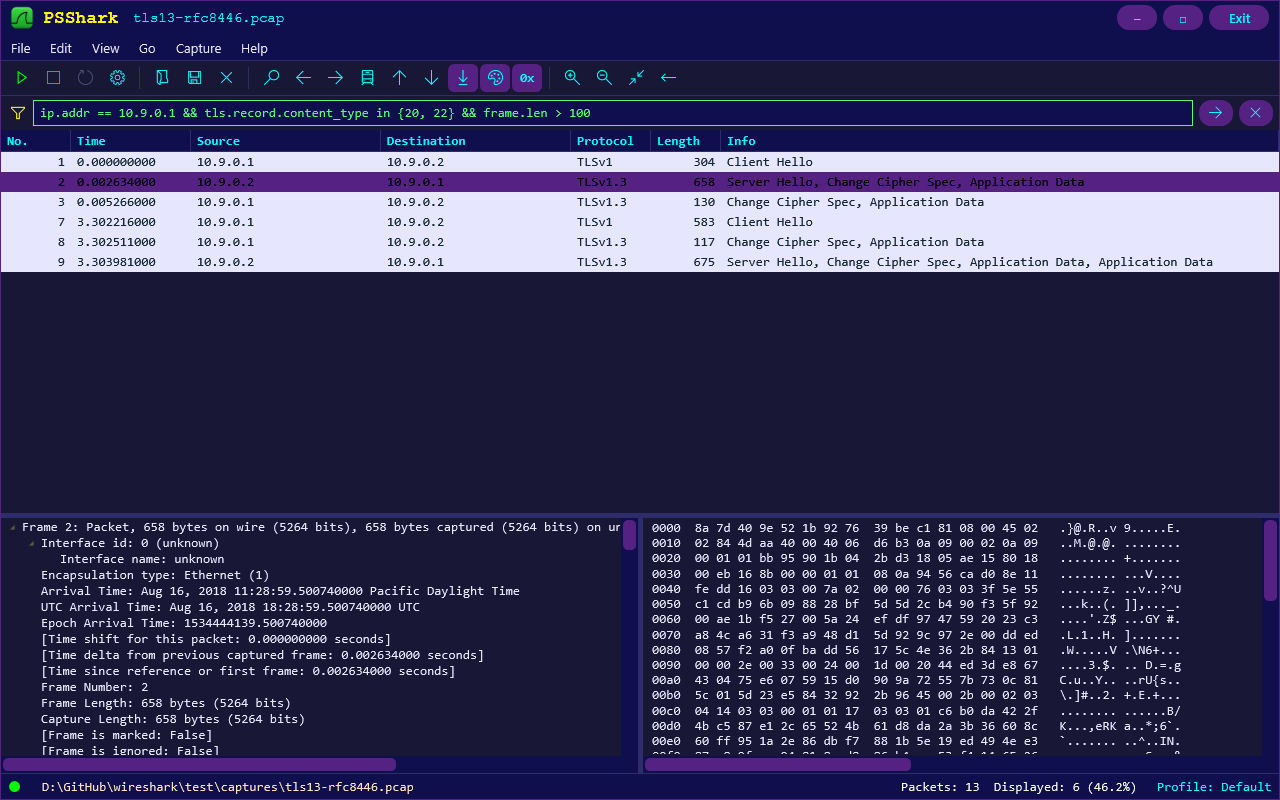
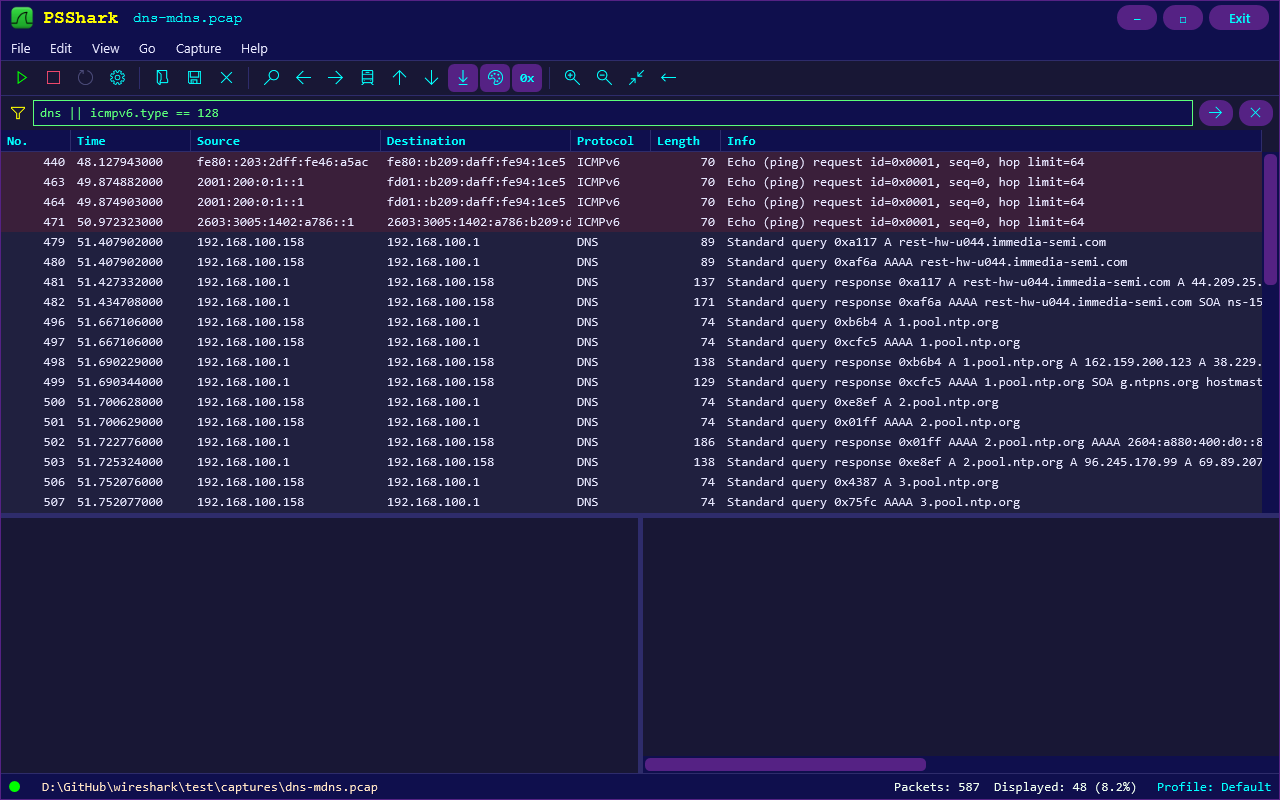
Update Theme

diff --git a/README.md b/README.md
@@ -10,6 +10,7 @@ application icon are all inside that single file.
 | | |
 |---|---|
 | **Version** | 1.0 |
+| **Author** | MeCRO-DEV |
 | **Platform** | Windows 10 / 11, Windows PowerShell 5.1 or PowerShell 7+ |
 | **Live capture** | Built-in `NetEventPacketCapture` module (needs Administrator) |
 | **Capture files** | Reads pcap and pcapng, writes pcap, exports pktmon-style text |
@@ -207,21 +208,23 @@ Other shortcuts: **Ctrl+/** moves the focus to the filter bar; **Enter** in the 
 | **Length** | Frame length on the wire |
 | **Info** | Wireshark-style summary, for example `443 -> 51945 [ACK] Seq=1 Ack=2 Win=255 Len=0` |
 
-Rows are coloured with Wireshark's default rules:
+Rows are coloured following Wireshark's rule categories, using a dark palette (each protocol family keeps its
+own dark background with light text, so it stays readable against the rest of the dark UI):
 
 | Colour | Traffic |
 |---|---|
-| Light purple | TCP |
-| Grey | TCP SYN / FIN |
-| Dark red | TCP RST |
-| Black on red text | TCP problems (retransmission, missing segment) |
-| Light blue | UDP (including DNS, DHCP, NTP) |
-| Light green | HTTP |
-| Light pink | ICMP and ICMPv6 |
-| Light yellow | ARP |
-| Cream | Routing protocols |
+| Dark indigo | TCP |
+| Dark grey | TCP SYN / FIN |
+| Deep red, amber text | TCP RST |
+| Dark red-brown, red text | TCP problems (retransmission, missing segment) |
+| Dark blue | UDP (including DNS, DHCP, NTP) |
+| Dark green | HTTP |
+| Dark plum | ICMP and ICMPv6 |
+| Dark amber-brown | ARP |
+| Dark gold | Routing protocols |
 
-**Colorize** in the View menu or toolbar switches the colouring off. The selected row is always purple.
+**Colorize** in the View menu or toolbar switches the colouring off (all rows use the same dark background and
+light text). The selected row is always purple.
 
 ![Filtering](docs/images/filter.png)
 
@@ -510,7 +513,7 @@ Reading and writing run on worker runspaces with progress reporting; a 410,900-p
 
 ### 6.9 User interface design
 
-- **Theme "Midnight Violet"**, taken from the author's PSPigeon project: window `#181735`, title bar `#0F0F4D`,
+- **Theme "Midnight Violet"**, modelled on the author's earlier PSPigeon project: window `#181735`, title bar `#0F0F4D`,
   buttons `#552284` turning `#FF4C70` on hover, cyan/yellow/lime accents, Courier New title text.
 - **Custom window chrome** (`WindowChrome`): borderless window with our own title bar and buttons that still resizes,
   snaps and maximises correctly.
@@ -631,8 +634,10 @@ name to `c.Chain` and stores filter values with `AddApp`. Then add its keyword t
 ```
 PSShark.ps1                     the application: script + embedded C# core + XAML + icon
 README.md / README.pdf          this document
+CLAUDE.md                       working notes for AI coding assistants
 wireshark-icon-green.png        the application icon (embedded in the script as base64)
-PSPigeon.ps1                    the sibling project whose theme PSShark follows
 docs/images/                    screenshots used in this document
 docs/samples/reassembly-demo.pcap   small synthetic capture with split HTTP/TLS/DNS messages
 ```
+
+**Copyright:** MeCRO-DEV. **License:** not specified yet.
